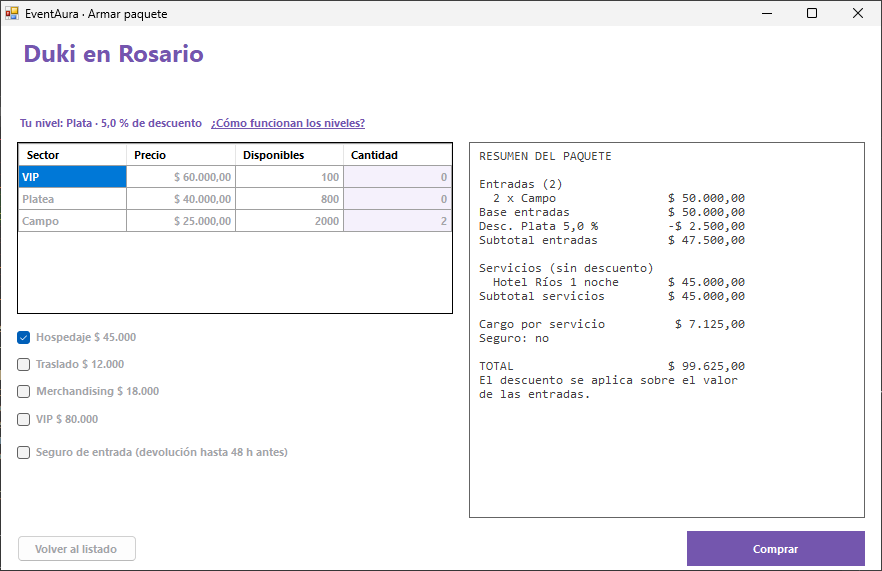
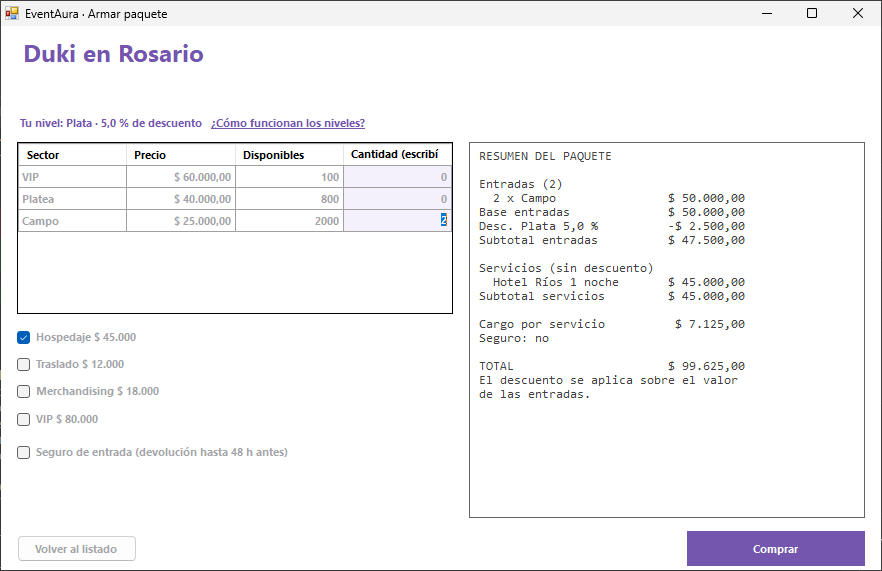
Instructivo: figuras regeneradas tras T-22 a T-26
La figura 2 muestra el encabezado nuevo de la columna Cantidad y el cursor
en la cantidad de Campo, donde escribió el usuario; antes quedaba en VIP.
El encabezado se ve cortado: es U-14, encargado como T-29, y las figuras
se regeneran otra vez después. Captura.cs carga primero el valor y después
mueve el cursor, para que la celda no muestre el 0 anterior.

Changed region(s): [[0.0, 0.268, 0.1531, 0.3275], [0.398, 0.2382, 0.4898, 0.2977]]

diff --git a/tools/CapturasInstructivo/Captura.cs b/tools/CapturasInstructivo/Captura.cs
@@ -68,7 +68,14 @@ static class Captura
         var sectores = Buscar<DataGridView>(compra, "dgvSectores");
         foreach (DataGridViewRow fila in sectores.Rows)
             foreach (DataGridViewCell celda in fila.Cells)
-                if (Convert.ToString(celda.Value) == "Campo") fila.Cells["Cantidad"].Value = 2;
+                if (Convert.ToString(celda.Value) == "Campo")
+                {
+                    // Como el usuario: el cursor queda en la celda donde escribió. Primero el
+                    // valor y después el cursor: si no, la celda entra en edición con el 0 viejo.
+                    fila.Cells["Cantidad"].Value = 2;
+                    sectores.CurrentCell = fila.Cells["Cantidad"];
+                    sectores.EndEdit();
+                }
         Buscar<CheckBox>(compra, "chkHospedaje").Checked = true;
         Esperar(500);
         string resumen = Buscar<Label>(compra, "lblResumen").Text;

diff --git a/docs/capturas/instructivo/LEEME.md b/docs/capturas/instructivo/LEEME.md
@@ -18,11 +18,17 @@ $7.125, **total $99.625**. Para regenerarlas: `tools/CapturasInstructivo/Generar
 
 ## Observaciones para quien pegue las figuras en el documento
 
-1. **Son las definitivas.** Se regeneraron después de T-21, cuando la semilla quedó alineada
-   con el ejemplo de la página 54. Un docente puede reproducirlas siguiendo el instructivo:
+1. **Reproducen el ejemplo de la página 54**, con la semilla alineada en T-21. Las definitivas
+   son las que se generen después de T-29 (ver el punto 4). Un docente puede reproducirlas
+   siguiendo el instructivo:
    iniciar sesión como `plata@eventaura.com`, elegir «Duki en Rosario», 2 entradas de Campo
    y el hospedaje.
 2. **La ruta de la figura 4 es neutra:** `C:\Users\Cliente\Documents\A1.Tickets EVENTAURA`.
    El programa de captura reemplaza la carpeta real del usuario antes de fotografiar.
 3. **Todo lo que hay que cambiar en el texto del documento** (por ejemplo, el estado de
    implementación de la página 50) está en `docs/CORRECCIONES-DOCUMENTO.md`.
+
+4. **Regeneradas otra vez el 04/11/2026 después de T-22 a T-26.** La figura 2 muestra el
+   encabezado nuevo de la columna y el cursor en la cantidad de Campo. **El encabezado se ve
+   cortado, «Cantidad (escribí»:** es el hallazgo U-14, encargado a Codex como T-29. Después
+   de T-29 hay que regenerarlas una vez más con `Generar.ps1`, y esas van al documento.
